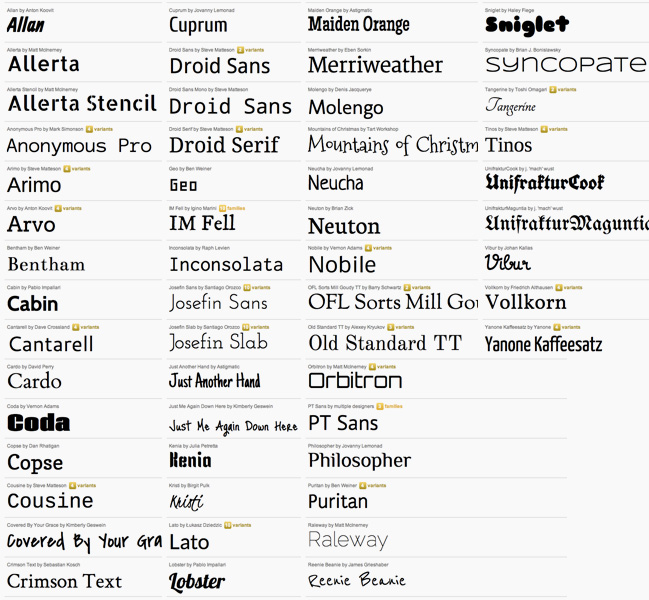
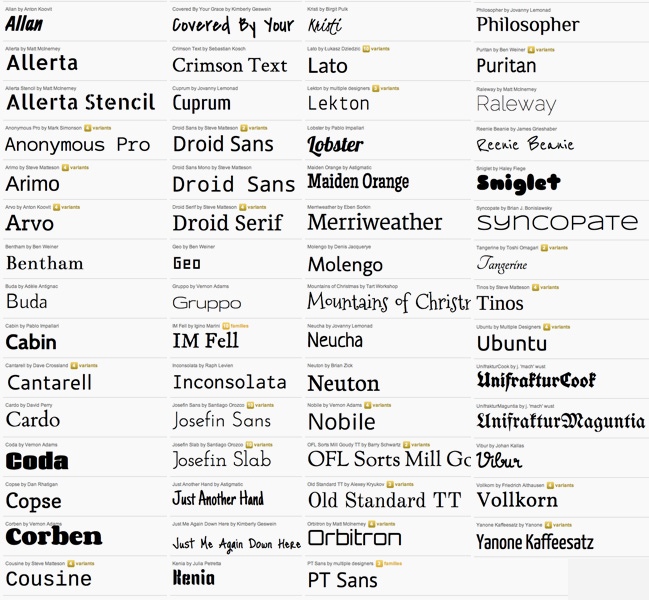
added 5 more fonts
git-svn-id: https://plugins.svn.wordpress.org/wp-google-fonts/trunk@324850 b8457f37-d9ea-0310-8a92-e5e31aec5664

Changed region(s): [[0.0, 0.0, 1.0, 0.99]]

diff --git a/google-fonts.php b/google-fonts.php
@@ -2,7 +2,7 @@
 /* 
 Plugin Name: WP Google Fonts
 Plugin URI: http://adrian3.com/projects/wordpress-plugins/wordpress-google-fonts-plugin/
-Version: v1.6
+Version: v1.7
 Author: <a href="http://adrian3.com/">Adrian3</a>
 Description: The Wordpress Google Fonts Plugin makes it even easier to add and customize Google fonts on your site through Wordpress. 
 Author: Adrian Hanft
@@ -186,6 +186,14 @@ if ($this->options['googlefonts_font4'] == 'Bentham') 						{ echo '<link href=\
 if ($this->options['googlefonts_font5'] == 'Bentham') 						{ echo '<link href=\'http://fonts.googleapis.com/css?family=Bentham\' rel=\'stylesheet\' type=\'text/css\' />'; }
 if ($this->options['googlefonts_font6'] == 'Bentham') 						{ echo '<link href=\'http://fonts.googleapis.com/css?family=Bentham\' rel=\'stylesheet\' type=\'text/css\' />'; }
 
+// Buda Light
+if ($this->options['googlefonts_font1'] == 'Buda:light') 						{ echo '<link href=\'http://fonts.googleapis.com/css?family=Buda:light\' rel=\'stylesheet\' type=\'text/css\' />'; }
+if ($this->options['googlefonts_font2'] == 'Buda:light') 						{ echo '<link href=\'http://fonts.googleapis.com/css?family=Buda:light\' rel=\'stylesheet\' type=\'text/css\' />'; }
+if ($this->options['googlefonts_font3'] == 'Buda:light') 						{ echo '<link href=\'http://fonts.googleapis.com/css?family=Buda:light\' rel=\'stylesheet\' type=\'text/css\' />'; }
+if ($this->options['googlefonts_font4'] == 'Buda:light') 						{ echo '<link href=\'http://fonts.googleapis.com/css?family=Buda:light\' rel=\'stylesheet\' type=\'text/css\' />'; }
+if ($this->options['googlefonts_font5'] == 'Buda:light') 						{ echo '<link href=\'http://fonts.googleapis.com/css?family=Buda:light\' rel=\'stylesheet\' type=\'text/css\' />'; }
+if ($this->options['googlefonts_font6'] == 'Buda:light') 						{ echo '<link href=\'http://fonts.googleapis.com/css?family=Buda:light\' rel=\'stylesheet\' type=\'text/css\' />'; }
+
 // Cabin
 if ($this->options['googlefonts_font1'] == 'Cabin') 						{ echo '<link href=\'http://fonts.googleapis.com/css?family=Cabin:bold\' rel=\'stylesheet\' type=\'text/css\' />'; }
 if ($this->options['googlefonts_font2'] == 'Cabin') 						{ echo '<link href=\'http://fonts.googleapis.com/css?family=Cabin:bold\' rel=\'stylesheet\' type=\'text/css\' />'; }
@@ -232,6 +240,14 @@ if ($this->options['googlefonts_font3'] == 'Copse') 						{ echo '<link href=\'h
 if ($this->options['googlefonts_font4'] == 'Copse') 						{ echo '<link href=\'http://fonts.googleapis.com/css?family=Copse\' rel=\'stylesheet\' type=\'text/css\' />'; }
 if ($this->options['googlefonts_font5'] == 'Copse') 						{ echo '<link href=\'http://fonts.googleapis.com/css?family=Copse\' rel=\'stylesheet\' type=\'text/css\' />'; }
 if ($this->options['googlefonts_font6'] == 'Copse') 						{ echo '<link href=\'http://fonts.googleapis.com/css?family=Copse\' rel=\'stylesheet\' type=\'text/css\' />'; }
+
+// Corben Bold
+if ($this->options['googlefonts_font1'] == 'Corben:bold') 						{ echo '<link href=\'http://fonts.googleapis.com/css?family=Corben:bold\' rel=\'stylesheet\' type=\'text/css\' />'; }
+if ($this->options['googlefonts_font2'] == 'Corben:bold') 						{ echo '<link href=\'http://fonts.googleapis.com/css?family=Corben:bold\' rel=\'stylesheet\' type=\'text/css\' />'; }
+if ($this->options['googlefonts_font3'] == 'Corben:bold') 						{ echo '<link href=\'http://fonts.googleapis.com/css?family=Corben:bold\' rel=\'stylesheet\' type=\'text/css\' />'; }
+if ($this->options['googlefonts_font4'] == 'Corben:bold') 						{ echo '<link href=\'http://fonts.googleapis.com/css?family=Corben:bold\' rel=\'stylesheet\' type=\'text/css\' />'; }
+if ($this->options['googlefonts_font5'] == 'Corben:bold') 						{ echo '<link href=\'http://fonts.googleapis.com/css?family=Corben:bold\' rel=\'stylesheet\' type=\'text/css\' />'; }
+if ($this->options['googlefonts_font6'] == 'Corben:bold') 						{ echo '<link href=\'http://fonts.googleapis.com/css?family=Corben:bold\' rel=\'stylesheet\' type=\'text/css\' />'; }
 
 // Cousine
 if ($this->options['googlefonts_font1'] == 'Cousine') 					{ echo '<link href=\'http://fonts.googleapis.com/css?family=Cousine\' rel=\'stylesheet\' type=\'text/css\' />'; }
@@ -317,6 +333,14 @@ if ($this->options['googlefonts_font3'] == 'Geo') 					{ echo '<link href=\'http
 if ($this->options['googlefonts_font4'] == 'Geo') 					{ echo '<link href=\'http://fonts.googleapis.com/css?family=Geo\' rel=\'stylesheet\' type=\'text/css\' />'; }
 if ($this->options['googlefonts_font5'] == 'Geo') 					{ echo '<link href=\'http://fonts.googleapis.com/css?family=Geo\' rel=\'stylesheet\' type=\'text/css\' />'; }
 if ($this->options['googlefonts_font6'] == 'Geo') 					{ echo '<link href=\'http://fonts.googleapis.com/css?family=Geo\' rel=\'stylesheet\' type=\'text/css\' />'; }
+
+// Gruppo
+if ($this->options['googlefonts_font1'] == 'Gruppo') 						{ echo '<link href=\'http://fonts.googleapis.com/css?family=Gruppo\' rel=\'stylesheet\' type=\'text/css\' />'; }
+if ($this->options['googlefonts_font2'] == 'Gruppo') 						{ echo '<link href=\'http://fonts.googleapis.com/css?family=Gruppo\' rel=\'stylesheet\' type=\'text/css\' />'; }
+if ($this->options['googlefonts_font3'] == 'Gruppo') 						{ echo '<link href=\'http://fonts.googleapis.com/css?family=Gruppo\' rel=\'stylesheet\' type=\'text/css\' />'; }
+if ($this->options['googlefonts_font4'] == 'Gruppo') 						{ echo '<link href=\'http://fonts.googleapis.com/css?family=Gruppo\' rel=\'stylesheet\' type=\'text/css\' />'; }
+if ($this->options['googlefonts_font5'] == 'Gruppo') 						{ echo '<link href=\'http://fonts.googleapis.com/css?family=Gruppo\' rel=\'stylesheet\' type=\'text/css\' />'; }
+if ($this->options['googlefonts_font6'] == 'Gruppo') 						{ echo '<link href=\'http://fonts.googleapis.com/css?family=Gruppo\' rel=\'stylesheet\' type=\'text/css\' />'; }
 
 // Inconsolata
 if ($this->options['googlefonts_font1'] == 'Inconsolata') 				{ echo '<link href=\'http://fonts.googleapis.com/css?family=Inconsolata\' rel=\'stylesheet\' type=\'text/css\' />'; }
@@ -702,6 +726,22 @@ if ($this->options['googlefonts_font4'] == 'Lobster') 					{ echo '<link href=\'
 if ($this->options['googlefonts_font5'] == 'Lobster') 					{ echo '<link href=\'http://fonts.googleapis.com/css?family=Lobster\' rel=\'stylesheet\' type=\'text/css\' />'; }
 if ($this->options['googlefonts_font6'] == 'Lobster') 					{ echo '<link href=\'http://fonts.googleapis.com/css?family=Lobster\' rel=\'stylesheet\' type=\'text/css\' />'; }
 
+// Lekton
+if ($this->options['googlefonts_font1'] == 'Lekton') 						{ echo '<link href=\'http://fonts.googleapis.com/css?family=Lekton\' rel=\'stylesheet\' type=\'text/css\' />'; }
+if ($this->options['googlefonts_font2'] == 'Lekton') 						{ echo '<link href=\'http://fonts.googleapis.com/css?family=Lekton\' rel=\'stylesheet\' type=\'text/css\' />'; }
+if ($this->options['googlefonts_font3'] == 'Lekton') 						{ echo '<link href=\'http://fonts.googleapis.com/css?family=Lekton\' rel=\'stylesheet\' type=\'text/css\' />'; }
+if ($this->options['googlefonts_font4'] == 'Lekton') 						{ echo '<link href=\'http://fonts.googleapis.com/css?family=Lekton\' rel=\'stylesheet\' type=\'text/css\' />'; }
+if ($this->options['googlefonts_font5'] == 'Lekton') 						{ echo '<link href=\'http://fonts.googleapis.com/css?family=Lekton\' rel=\'stylesheet\' type=\'text/css\' />'; }
+if ($this->options['googlefonts_font6'] == 'Lekton') 						{ echo '<link href=\'http://fonts.googleapis.com/css?family=Lekton\' rel=\'stylesheet\' type=\'text/css\' />'; }
+
+// Lekton bold, italic, bold italic
+if ($this->options['googlefonts_font1'] == 'Lekton:regular,italic,bold') 						{ echo '<link href=\'http://fonts.googleapis.com/css?family=Lekton:regular,italic,bold\' rel=\'stylesheet\' type=\'text/css\' />'; }
+if ($this->options['googlefonts_font2'] == 'Lekton:regular,italic,bold') 						{ echo '<link href=\'http://fonts.googleapis.com/css?family=Lekton:regular,italic,bold\' rel=\'stylesheet\' type=\'text/css\' />'; }
+if ($this->options['googlefonts_font3'] == 'Lekton:regular,italic,bold') 						{ echo '<link href=\'http://fonts.googleapis.com/css?family=Lekton:regular,italic,bold\' rel=\'stylesheet\' type=\'text/css\' />'; }
+if ($this->options['googlefonts_font4'] == 'Lekton:regular,italic,bold') 						{ echo '<link href=\'http://fonts.googleapis.com/css?family=Lekton:regular,italic,bold\' rel=\'stylesheet\' type=\'text/css\' />'; }
+if ($this->options['googlefonts_font5'] == 'Lekton:regular,italic,bold') 						{ echo '<link href=\'http://fonts.googleapis.com/css?family=Lekton:regular,italic,bold\' rel=\'stylesheet\' type=\'text/css\' />'; }
+if ($this->options['googlefonts_font6'] == 'Lekton:regular,italic,bold') 						{ echo '<link href=\'http://fonts.googleapis.com/css?family=Lekton:regular,italic,bold\' rel=\'stylesheet\' type=\'text/css\' />'; }
+
 // Maiden Orange
 if ($this->options['googlefonts_font1'] == 'Maiden Orange') 						{ echo '<link href=\'http://fonts.googleapis.com/css?family=Maiden+Orange\' rel=\'stylesheet\' type=\'text/css\' />'; }
 if ($this->options['googlefonts_font2'] == 'Maiden Orange') 						{ echo '<link href=\'http://fonts.googleapis.com/css?family=Maiden+Orange\' rel=\'stylesheet\' type=\'text/css\' />'; }
@@ -947,6 +987,22 @@ if ($this->options['googlefonts_font3'] == 'Tinos:regular,italic,bold,bolditalic
 if ($this->options['googlefonts_font4'] == 'Tinos:regular,italic,bold,bolditalic') 				{ echo '<link href=\'http://fonts.googleapis.com/css?family=Tinos:regular,italic,bold,bolditalic\' rel=\'stylesheet\' type=\'text/css\' />'; }
 if ($this->options['googlefonts_font5'] == 'Tinos:regular,italic,bold,bolditalic') 				{ echo '<link href=\'http://fonts.googleapis.com/css?family=Tinos:regular,italic,bold,bolditalic\' rel=\'stylesheet\' type=\'text/css\' />'; }
 if ($this->options['googlefonts_font6'] == 'Tinos:regular,italic,bold,bolditalic') 				{ echo '<link href=\'http://fonts.googleapis.com/css?family=Tinos:regular,italic,bold,bolditalic\' rel=\'stylesheet\' type=\'text/css\' />'; }
+
+// Ubuntu
+if ($this->options['googlefonts_font1'] == 'Ubuntu') 						{ echo '<link href=\'http://fonts.googleapis.com/css?family=Ubuntu\' rel=\'stylesheet\' type=\'text/css\' />'; }
+if ($this->options['googlefonts_font2'] == 'Ubuntu') 						{ echo '<link href=\'http://fonts.googleapis.com/css?family=Ubuntu\' rel=\'stylesheet\' type=\'text/css\' />'; }
+if ($this->options['googlefonts_font3'] == 'Ubuntu') 						{ echo '<link href=\'http://fonts.googleapis.com/css?family=Ubuntu\' rel=\'stylesheet\' type=\'text/css\' />'; }
+if ($this->options['googlefonts_font4'] == 'Ubuntu') 						{ echo '<link href=\'http://fonts.googleapis.com/css?family=Ubuntu\' rel=\'stylesheet\' type=\'text/css\' />'; }
+if ($this->options['googlefonts_font5'] == 'Ubuntu') 						{ echo '<link href=\'http://fonts.googleapis.com/css?family=Ubuntu\' rel=\'stylesheet\' type=\'text/css\' />'; }
+if ($this->options['googlefonts_font6'] == 'Ubuntu') 						{ echo '<link href=\'http://fonts.googleapis.com/css?family=Ubuntu\' rel=\'stylesheet\' type=\'text/css\' />'; }
+
+// Ubuntu:regular,italic,bold,bolditalic
+if ($this->options['googlefonts_font1'] == 'Ubuntu:regular,italic,bold,bolditalic') 						{ echo '<link href=\'http://fonts.googleapis.com/css?family=Ubuntu:regular,italic,bold,bolditalic\' rel=\'stylesheet\' type=\'text/css\' />'; }
+if ($this->options['googlefonts_font2'] == 'Ubuntu:regular,italic,bold,bolditalic') 						{ echo '<link href=\'http://fonts.googleapis.com/css?family=Ubuntu:regular,italic,bold,bolditalic\' rel=\'stylesheet\' type=\'text/css\' />'; }
+if ($this->options['googlefonts_font3'] == 'Ubuntu:regular,italic,bold,bolditalic') 						{ echo '<link href=\'http://fonts.googleapis.com/css?family=Ubuntu:regular,italic,bold,bolditalic\' rel=\'stylesheet\' type=\'text/css\' />'; }
+if ($this->options['googlefonts_font4'] == 'Ubuntu:regular,italic,bold,bolditalic') 						{ echo '<link href=\'http://fonts.googleapis.com/css?family=Ubuntu:regular,italic,bold,bolditalic\' rel=\'stylesheet\' type=\'text/css\' />'; }
+if ($this->options['googlefonts_font5'] == 'Ubuntu:regular,italic,bold,bolditalic') 						{ echo '<link href=\'http://fonts.googleapis.com/css?family=Ubuntu:regular,italic,bold,bolditalic\' rel=\'stylesheet\' type=\'text/css\' />'; }
+if ($this->options['googlefonts_font6'] == 'Ubuntu:regular,italic,bold,bolditalic') 						{ echo '<link href=\'http://fonts.googleapis.com/css?family=Ubuntu:regular,italic,bold,bolditalic\' rel=\'stylesheet\' type=\'text/css\' />'; }
 
 // UnifrakturCook
 if ($this->options['googlefonts_font1'] == 'UnifrakturCook:bold') 				{ echo '<link href=\'http://fonts.googleapis.com/css?family=UnifrakturCook:bold\' rel=\'stylesheet\' type=\'text/css\' />'; }
@@ -1459,6 +1515,7 @@ $this->options['googlefont6_css'] = $_POST['googlefont6_css'];
 <option value="Arvo">Arvo</option>
 <option value="Arvo:regular,italic,bold,bolditalic">Arvo (plus italic, bold, and bold italic)</option>
 <option value="Bentham">Bentham</option>
+<option value="Buda:light">Buda</option>
 <option value="Cabin">Cabin</option>
 <option value="Cardo">Cardo</option>
 <option value="Cantarell">Cantarell</option>
@@ -1466,6 +1523,7 @@ $this->options['googlefont6_css'] = $_POST['googlefont6_css'];
 <option value="Cardo">Cardo</option>
 <option value="Coda">Coda</option>
 <option value="Copse">Copse</option>
+<option value="Corben:bold">Corben</option>
 <option value="Cousine">Cousine</option>
 <option value="Cousine:regular,italic,bold,bolditalic">Cousine (plus italic, bold, and bold italic)</option>
 <option value="Covered By Your Grace">Covered By Your Grace</option>
@@ -1477,6 +1535,7 @@ $this->options['googlefont6_css'] = $_POST['googlefont6_css'];
 <option value="Droid Serif">Droid Serif</option>
 <option value="Droid Serif:regular,italic,bold,bolditalic">Droid Serif (plus italic, bold, and bold italic)</option>
 <option value="Geo">Geo</option>
+<option value="Gruppo">Gruppo</option>
 <option value="Inconsolata">Inconsolata</option>
 <option value="IM Fell DW Pica">IM Fell DW Pica</option>
 <option value="IM Fell DW Pica:regular,italic">IM Fell DW Pica (plus italic)</option>
@@ -1527,6 +1586,8 @@ $this->options['googlefont6_css'] = $_POST['googlefont6_css'];
 <option value="Lato:bold,bolditalic">Lato Bold 700 (plus italic)</option>
 <option value="Lato:900">Lato 900</option>
 <option value="Lato:900,900italic">Lato 900 (plus italic)</option>
+<option value="Lekton"> Lekton </option>
+<option value="Lekton:regular,italic,bold">Lekton (plus italic and bold)</option>
 <option value="Lobster">Lobster</option>
 <option value="Maiden Orange">Maiden Orange</option>
 <option value="Merriweather">Merriweather</option>
@@ -1560,6 +1621,8 @@ $this->options['googlefont6_css'] = $_POST['googlefont6_css'];
 <option value="Tangerine">Tangerine</option>
 <option value="Tinos">Tinos</option>
 <option value="Tinos:regular,italic,bold,bolditalic">Tinos (plus italic, bold, and bold italic)</option>
+<option value="Ubuntu">Ubuntu</option>
+<option value="Ubuntu:regular,italic,bold,bolditalic">Ubuntu (plus italic, bold, and bold italic)</option>
 <option value="UnifrakturCook:bold">UnifrakturCook</option>
 <option value="UnifrakturMaguntia">UnifrakturMaguntia</option>
 <option value="Vibur">Vibur</option>
